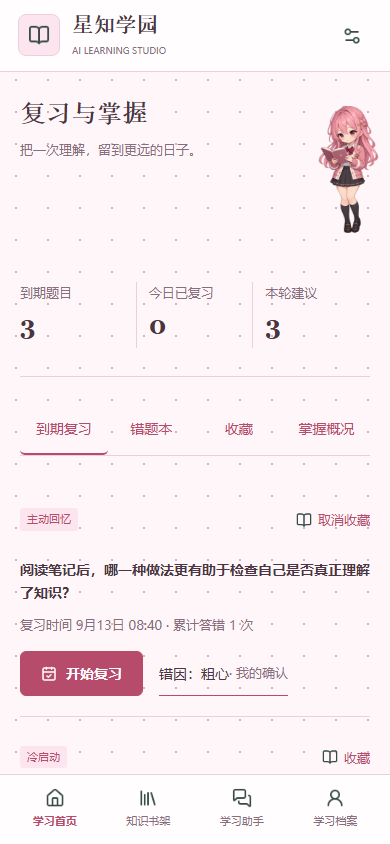
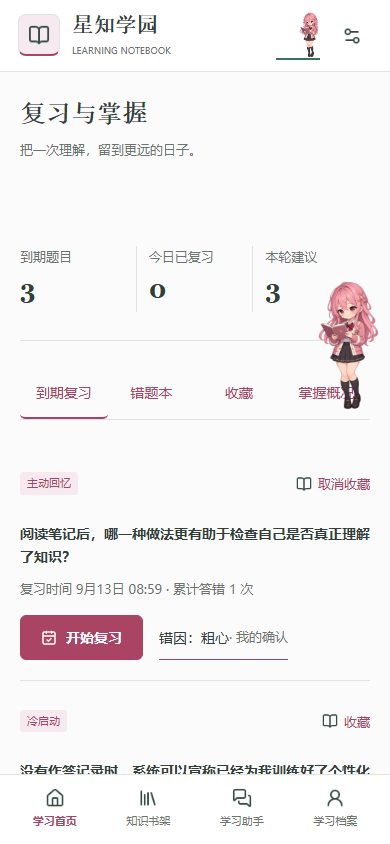
design: simplify the learning notebook with original painted artwork

diff --git a/frontend/src/app.scss b/frontend/src/app.scss
@@ -1,11 +1,11 @@
-page, body { margin: 0; background: #fff6f9; font-family: 'PingFang SC', 'Microsoft YaHei', sans-serif; font-size: 14px; letter-spacing: 0; }
+page, body { margin: 0; background: #fcfbfc; font-family: 'PingFang SC', 'Microsoft YaHei', sans-serif; font-size: 14px; letter-spacing: 0; }
 .studio taro-button-core { width: auto; margin: 0; font-family: inherit; }
 .studio taro-button-core::after { border: 0; }
 .studio .studio-icon img { width: 100%; height: 100%; object-fit: contain; position: static; transform: none; display: block; }
 .studio .secondary-button, .studio .answer-option { color: var(--ink); }
 .studio .studio-textarea .taro-textarea, .studio .studio-input .weui-input { background: transparent; color: var(--ink); }
 .studio .studio-textarea .taro-textarea { width: 100%; min-height: 88px; resize: vertical; }
-.has-companion .page-heading { padding-right: 84px; min-height: 132px; }
+.has-companion .page-heading { padding-right: 84px; min-height: 96px; }
 .studio taro-button-core[disabled=true] { opacity: .55; cursor: default; }
 .studio .login-submit { width: 100%; margin-top: 24px; }
 .studio .login-switch > *, .studio .pose-selector > * { flex: 1; }
@@ -50,7 +50,6 @@ page, body { margin: 0; background: #fff6f9; font-family: 'PingFang SC', 'Micros
 .report-question { padding: 22px 0; border-top: 1px solid var(--line); }
 .document-actions { display: flex; flex-wrap: wrap; gap: 12px; margin-top: 12px; }
 .upload-band { padding: 20px 0 28px; border-bottom: 1px solid var(--line); margin-bottom: 24px; }
-.theme-sakura { background-size: 32px 32px !important; }
 @media (max-width: 420px) { .studio .section-heading { flex-wrap: wrap; }.studio .appearance-dialog { padding: 16px; }.studio .theme-option { min-height: 56px; }.studio .theme-options { gap: 6px; }.studio .setting-row { min-height: 50px; margin-top: 8px; } }
 view, text, image, button, input, textarea { box-sizing: border-box; }
 button { margin: 0; padding: 0; border: 0; background: transparent; color: inherit; font: inherit; line-height: inherit; cursor: pointer; }
@@ -58,11 +57,12 @@ button::after { border: 0; }
 input, textarea { font: inherit; }
 button:disabled { opacity: .55; cursor: default; }
 .studio { --bg: #f3f7f3; --paper: #fff; --ink: #253d32; --muted: #68756d; --accent: #326b55; --soft: #e2eee5; --line: #d3dfd5; --secondary: #ad4e57; --heading: Georgia, 'Songti SC', serif; min-height: 100vh; background: var(--bg); color: var(--ink); font-size: 14px; line-height: 1.65; }
-.theme-sakura { --bg: #fff6f9; --paper: #fffdfd; --ink: #4c3543; --muted: #886e7c; --accent: #b74b6c; --soft: #fce5ee; --line: #edcfdb; --secondary: #407f78; --heading: 'Songti SC', Georgia, serif; background-image: radial-gradient(#dfacc0 1px, transparent 1px); background-size: 22px 22px; }
-.theme-night { --bg: #202729; --paper: #293234; --ink: #f0f4ef; --muted: #aebfbc; --accent: #a3ddd1; --soft: #354844; --line: #4c6360; --secondary: #f1b89d; --heading: Georgia, 'Songti SC', serif; background-image: linear-gradient(#ffffff06 1px, transparent 1px), linear-gradient(90deg,#ffffff06 1px,transparent 1px); background-size: 36px 36px; }
-.theme-sea { --bg: #eefbfc; --paper: #fff; --ink: #254450; --muted: #5e7b82; --accent: #197c95; --soft: #d5f0f1; --line: #b7dce0; --secondary: #c35e48; --heading: 'PingFang SC', sans-serif; }
-.theme-scroll { --bg: #fff7ed; --paper: #fffdf8; --ink: #54392f; --muted: #896d5d; --accent: #a73a38; --soft: #f7e5d7; --line: #ddc5a2; --secondary: #307c78; --heading: 'Songti SC', Georgia, serif; }
-.theme-forest { background-image: linear-gradient(90deg,transparent 31px,#346b5506 32px); background-size: 32px 32px; }
+.theme-sakura { --bg: #fcfbfc; --paper: #fff; --ink: #304039; --muted: #6d7470; --accent: #a94465; --soft: #f6eaf0; --line: #e0e4df; --secondary: #387260; --heading: 'Songti SC', Georgia, serif; }
+.theme-night { --bg: #202729; --paper: #293234; --ink: #f0f4ef; --muted: #aebfbc; --accent: #a3ddd1; --soft: #354844; --line: #4c6360; --secondary: #f1b89d; --heading: Georgia, 'Songti SC', serif; }
+.theme-sea { --bg: #f6fafc; --paper: #fff; --ink: #254450; --muted: #55727a; --accent: #19758b; --soft: #e5f2f3; --line: #cfdee2; --secondary: #b15141; --heading: 'PingFang SC', sans-serif; }
+.theme-scroll { --bg: #fbfaf8; --paper: #fff; --ink: #403a38; --muted: #75685f; --accent: #9f393d; --soft: #f7ece9; --line: #e3d9d2; --secondary: #307c78; --heading: 'Songti SC', Georgia, serif; }
+.theme-forest .section-title { border-bottom: 1px solid var(--secondary); padding-bottom: 2px; }
+.theme-night .brand-mark { border-radius: 50%; }.theme-scroll .page-heading { border-bottom: 1px double #ad9161; padding-bottom: 12px; }
 .studio-topbar { height: 84px; padding: 0 36px; display: flex; align-items: center; justify-content: space-between; background: var(--paper); border-bottom: 1px solid var(--line); position: relative; z-index: 12; }
 .studio-brand, .topbar-end, .section-heading, .row, .actions { display: flex; align-items: center; gap: 12px; }
 .studio-brand { cursor: pointer; }
@@ -82,7 +82,7 @@ button:disabled { opacity: .55; cursor: default; }
 .section-heading { justify-content: space-between; margin-bottom: 18px; }.section-title { font-size: 18px; font-weight: 700; font-family: var(--heading); }.muted { color: var(--muted); font-size: 13px; }.muted, .tiny-label { display: block; }
 .text-button { display: inline-flex; align-items: center; justify-content: center; gap: 6px; min-height: 40px; color: var(--accent); font-size: 13px; }
 .primary-button, .secondary-button { min-height: 44px; padding: 10px 20px; border-radius: 6px; display: inline-flex; gap: 9px; align-items: center; justify-content: center; font-size: 14px; font-weight: 600; }.primary-button { background: var(--accent); color: var(--paper); border: 1px solid var(--accent); }.primary-button .studio-icon { filter: brightness(0) invert(1); }.theme-night .primary-button { color: #18322c; }.secondary-button { border: 1px solid var(--line); background: var(--paper); }
-.theme-sakura .secondary-button { border-style: dashed; }.theme-scroll .brand-mark { border-radius: 0; border: 2px double var(--secondary); }.theme-sea .page-heading { border-left: 3px solid var(--secondary); padding-left: 14px; }
+.theme-sakura .brand-mark { border-bottom: 2px solid var(--accent); }.theme-scroll .brand-mark { border-radius: 0; border: 2px double var(--secondary); }.theme-sea .page-heading { border-left: 3px solid var(--secondary); padding-left: 14px; }
 .mobile-navigation { display: none; }.modal-backdrop { position: fixed; inset: 0; z-index: 100; background: #16262066; display: flex; align-items: center; justify-content: center; padding: 18px; }
 .appearance-dialog { width: 420px; max-width: 100%; max-height: 85vh; overflow-y: auto; background: var(--paper); color: var(--ink); border: 1px solid var(--line); border-radius: 8px; padding: 24px; }
 .theme-options { display: flex; flex-direction: column; gap: 8px; }.theme-option { display: flex; align-items: center; gap: 12px; text-align: left; border: 1px solid var(--line); min-height: 66px; padding: 10px 12px; border-radius: 6px; }.theme-option.selected { border-color: var(--accent); background: var(--soft); }.theme-option .studio-icon { margin-left: auto; }.theme-swatch { width: 44px; height: 36px; border: 2px solid; padding: 8px; border-radius: 3px; }.theme-swatch view { height: 6px; margin-top: 12px; }
@@ -112,6 +112,10 @@ button:disabled { opacity: .55; cursor: default; }
 .quiz-citation .citation-link { white-space: normal; text-align: left; max-width: 100%; }
 .today-review { padding: 8px 0 24px; border-bottom: 1px solid var(--line); margin-bottom: 24px; gap: 16px; flex-wrap: wrap; }
 .today-review .muted { display: block; margin-top: 8px; }
+.study-window { display: flex; justify-content: center; background: var(--paper); margin: 0 0 22px; border-bottom: 1px solid var(--line); }
+.study-panorama { display: block; width: 100%; height: 220px; }
+.study-panorama img { position: static; width: 100%; height: 100%; object-fit: contain; transform: none; }
+@media (max-width: 800px) { .study-panorama { height: auto; aspect-ratio: 3 / 1; }.study-window { margin-bottom: 20px; }.welcome-band .welcome-title { font-size: 18px; }.welcome-band .primary-button { padding: 8px 12px; }.welcome-band { gap: 12px; } }
 .review-tabs { display: grid; grid-template-columns: repeat(4, minmax(0, 1fr)); border-bottom: 1px solid var(--line); margin-bottom: 24px; }
 .studio .review-tabs .text-button { min-width: 0; padding: 12px 4px; white-space: normal; font-size: 14px; border-bottom: 2px solid transparent; }
 .studio .review-tabs .active { border-bottom-color: var(--accent); color: var(--accent); }

diff --git a/frontend/src/pages/index/index.tsx b/frontend/src/pages/index/index.tsx
@@ -1,5 +1,5 @@
 import { useState, useCallback, useRef } from 'react'
-import { View, Text, Textarea, Button } from '@tarojs/components'
+import { View, Text, Textarea, Button, Image } from '@tarojs/components'
 import Taro, { useDidShow, useDidHide } from '@tarojs/taro'
 import { StudioShell, Notice, Empty, navigate } from '../../components/StudioShell'
 import { Icon } from '../../components/Icon'
@@ -40,10 +40,11 @@ export default function HomePage() {
     } catch (reason) { if (alive.current) setError(reason instanceof Error ? reason.message : '生成失败，请重试') }
     finally { busy.current = false; if (alive.current) setStage('') }
   }
-  return <StudioShell active='home' title='今天，也向前一小步' subtitle={`${profile?.nickname || getCachedUser()?.nickname || '同学'}，欢迎回到你的学习空间。`}>
+  return <StudioShell active='home' title='学习手帐' subtitle={`${profile?.nickname || getCachedUser()?.nickname || '同学'}，今天想读些什么？`}>
     {error && <Notice message={error} retry={load} />}
+    <View className='study-window'><Image className='study-panorama' src={require('../../assets/library-garden.jpg')} mode='aspectFit' /></View>
     <View className='today-review section-heading'><View><Text className='section-title'>今日复习</Text><Text className='muted'>{learning ? `${learning.due_count} 道到期 · 今日已复习 ${learning.today_reviews} 道` : '正在读取复习计划'}</Text></View><Button className='secondary-button' onClick={() => Taro.navigateTo({ url: '/learning/review/index' })}><Icon name='review' size={17} />复习与掌握</Button></View>
-    <View className='welcome-band'><View><Text className='tiny-label'>MY LEARNING NOTEBOOK</Text><Text className='welcome-title'>从一页知识，开始一次发现</Text><Text className='muted'>你的材料、练习与学习记录，都在这里。</Text></View><Button className='primary-button' onClick={() => navigate('/pages/knowledge/index')}><Icon name='upload' size={18} />添加学习材料</Button></View>
+    <View className='welcome-band'><Text className='welcome-title'>我的知识书架</Text><Button className='primary-button' onClick={() => navigate('/pages/knowledge/index')}><Icon name='upload' size={18} />添加学习材料</Button></View>
     <View className='stats-row'><View className='stat'><Text className='muted'>我的知识文档</Text><Text className='stat-number'>{documentCount}</Text><Text className='tiny-label'>篇学习材料</Text></View><View className='stat'><Text className='muted'>累计练习</Text><Text className='stat-number'>{profile?.quiz_count || 0}</Text><Text className='tiny-label'>次探索与尝试</Text></View><View className='stat'><Text className='muted'>已完成正确率</Text><Text className='stat-number'>{profile?.quiz_count ? `${profile.average_accuracy}%` : '暂无'}</Text><Text className='tiny-label'>{profile?.total_xp || 0} 学习经验</Text></View></View>
     <View className='dashboard-grid'><View className='section-band'><View className='section-heading'><Text className='section-title'>自由练习</Text><Text className='tag'>主题练习</Text></View><Textarea className='studio-textarea' placeholder='今天想学习什么？例如：Python 列表与字典的区别' value={input} maxlength={2000} onInput={e => setInput(e.detail.value)} /><View className='section-heading' style={{ marginTop: '14px' }}><Text className='muted'>{input.length}/2000</Text><Button className='primary-button' disabled={!input.trim() || !!stage} onClick={generate}><Icon name='sparkle' size={17} />{stage || '生成练习'}</Button></View></View>
       <View className='section-band'><View className='section-heading'><Text className='section-title'>最近的学习足迹</Text><Button className='text-button' onClick={() => navigate('/pages/profile/index')}>全部记录<Icon name='arrow' size={16} /></Button></View>{history.length ? history.map(item => <View className='history-row' key={item.quiz_id} onClick={() => Taro.navigateTo({ url: `/pages/report/index?quizId=${item.quiz_id}` })}><View className='row-copy'><Text className='row-title'>{item.title}</Text><Text className='muted'>{item.created_at}</Text></View><Text className='score-badge'>{item.accuracy}%</Text></View>) : <Empty title='第一段足迹，等你留下' text='添加材料或完成一次主题练习，学习记录就会出现在这里。' />}</View>

diff --git a/frontend/src/components/StudioProvider.tsx b/frontend/src/components/StudioProvider.tsx
@@ -2,11 +2,11 @@ import { createContext, useContext, useState, PropsWithChildren } from 'react'
 import Taro from '@tarojs/taro'
 
 export const themes = [
-  { id: 'sakura', name: '樱花学园', accent: '#b74b6c', paper: '#fff6f9', motif: '花笺' },
+  { id: 'sakura', name: '樱花学园', accent: '#a94465', paper: '#fcfbfc', motif: '花笺' },
   { id: 'night', name: '月夜观测室', accent: '#a3ddd1', paper: '#202729', motif: '星图' },
   { id: 'sea', name: '海盐夏日', accent: '#197c95', paper: '#eefbfc', motif: '航线' },
   { id: 'forest', name: '森之图书馆', accent: '#326b55', paper: '#f1f7f2', motif: '藏书' },
-  { id: 'scroll', name: '赤金绘卷', accent: '#a73a38', paper: '#fff7ed', motif: '印记' },
+  { id: 'scroll', name: '赤金绘卷', accent: '#9f393d', paper: '#fbfaf8', motif: '印记' },
 ] as const
 type Settings = { theme: string; reducedMotion: boolean; companion: boolean; companionFolded: boolean; companionForm: 'pink' | 'orange'; companionPose: 'auto' | 'read' | 'wave' | 'celebrate' }
 const defaults: Settings = { theme: 'sakura', reducedMotion: false, companion: true, companionFolded: false, companionForm: 'pink', companionPose: 'auto' }

diff --git a/frontend/e2e/appearance.spec.ts b/frontend/e2e/appearance.spec.ts
@@ -20,6 +20,9 @@ test('real account, mobile and desktop appearance', async ({ page, request }) =>
   await expect(page.locator('.welcome-title')).toBeVisible()
   await page.reload()
   await expect(page.locator('.welcome-title')).toBeVisible()
+  await expect(page.locator('.study-panorama')).toBeVisible()
+  await expect.poll(() => page.locator('.study-panorama img').evaluate(e => (e as HTMLImageElement).naturalWidth)).toBeGreaterThan(1000)
+  expect(await page.locator('.studio').evaluate(e => getComputedStyle(e).backgroundImage)).toBe('none')
   await expect(page.locator('.companion')).toBeVisible()
   expect(await page.evaluate(() => document.documentElement.scrollWidth <= innerWidth)).toBeTruthy()
   await mkdir('../docs/screenshots/h5', { recursive: true })

diff --git a/frontend/src/components/StudioShell.tsx b/frontend/src/components/StudioShell.tsx
@@ -35,7 +35,7 @@ export function StudioShell({ children, active, title, subtitle, guest = false, 
     <View className='studio-topbar'>
       <View className='studio-brand' onClick={() => navigate('/pages/index/index')}>
         <View className='brand-mark'><Icon name='book' size={22} /></View>
-        <View><Text className='brand-name'>星知学园</Text><Text className='brand-english'>AI LEARNING STUDIO</Text></View>
+        <View><Text className='brand-name'>星知学园</Text><Text className='brand-english'>LEARNING NOTEBOOK</Text></View>
       </View>
       <View className='topbar-end'>
         <Text className='theme-caption'>{themes.find(t => t.id === settings.theme)?.name}</Text>

diff --git a/docs/implementation-tracker.md b/docs/implementation-tracker.md
@@ -332,7 +332,7 @@ The following owner requests are part of the remaining acceptance scope, not com
 | REPORT-04 | Mermaid learning and relationship diagrams | Stored graph data after review; sanitized H5 renderer and tested native equivalent; invalid graphs fail visibly | Pending |
 | REVIEW-03 | Named error notebooks | Create notebook, explicitly add/remove an owned wrong question, select destination, idempotency and cross-user denial | Pending |
 | UI-04 | Visible companion and recovery | Focus pages must not silently remove it; safe collapsed state, restore/hide control, mobile/desktop/native checks | H5 fixed and verified; native build passed, IDE runtime pending |
-| UI-05 | Simpler hand-painted anime visual design | Original nature/study artwork, restrained surfaces and typography, no pervasive dot field or generic AI marketing composition; five themes and real screenshots | Pending |
+| UI-05 | Simpler hand-painted anime visual design | Original nature/study artwork, restrained surfaces and typography, no pervasive dot field or generic AI marketing composition; five themes and real screenshots | H5 simplified and verified across five themes; native runtime pending |
 
 GitHub code pushes are explicitly authorized; credentials must never be uploaded. Local paid model
 providers remain enabled with budgets. Deployment-side paid providers still require actual deployment
@@ -355,6 +355,19 @@ algorithm-experiment, native-testing, documentation or coexistence requirements.
   weapp main 574180 bytes. Native IDE runtime remains unverified, not described as fixed by a build.
 - Evidence: `evidence/companion-visibility.json`, `evidence/companion-build-size.json`, and the actual
   H5 screenshot `screenshots/h5/26-companion-focus.png`. No provider calls or production changes.
+
+### Hand-Painted Interface Loop (2026-09-15)
+
+- Removed pervasive dot/grid backgrounds, reduced the oversized heading reservation and replaced
+  promotional home copy with literal learning labels. Five themes retain stable navigation and
+  individual accent, border and typography choices on restrained surfaces.
+- Added one original 1280x427 study-library illustration (120801 bytes). It is decorative artwork,
+  explicitly attributed in `assets-attribution.md`, not a system screenshot or a reference-project
+  asset. The runtime screenshots show the actual browser interface and real isolated test data.
+- Three browser scenarios passed in 15.3 s: five themes, mobile/small/desktop layouts, artwork load,
+  companion rendering and recovery, and the complete server-backed review flow. H5 and weapp builds
+  passed; native IDE execution still requires verification. Source bounds and UI overlap assertions
+  remain enabled. Evidence: refreshed screenshots 01, 07, 09-10, 23-26 and `theme-*.png`.
 
 - Preserve Taro 4.1.11, MySQL and Chroma; enhance existing modules.
 - Deterministic tests must disable dotenv and network before importing the application.

diff --git a/docs/assets-attribution.md b/docs/assets-attribution.md
@@ -8,6 +8,20 @@ Files: `frontend/src/assets/companion-pink-{0,1,2}.png` and `companion-orange-{0
 
 Generation prompt: original adult anime study mentor; transparent three-column sprite sheet; identical outfit and scale within each sheet; full-body reading/thinking, waving, celebration poses; pink hair/cardigan or apricot hair/vest; no text, logos or third-party franchise references. Runtime animation is implemented separately from this artwork and can be disabled.
 
+## Library Garden
+
+`frontend/src/assets/library-garden.jpg` was generated with built-in ImageGen on 2026-09-15 for this
+project, then resized without cropping to 1280x427 JPEG (120801 bytes). It is original decorative
+artwork, not a screenshot, and uses no reference-project artwork or existing film characters.
+Distribution follows the repository license to the extent rights in generated output permit;
+copyright eligibility and exclusivity are not guaranteed.
+
+Prompt: original compact 3:1 school-library panorama open to a garden, notebook and pencil in the
+foreground, pale-blue window frames, leaf-green canopy and clouds, a small pink-haired student
+reading on the right; hand-painted 2D animated-film background, irregular ink lines, matte gouache
+and watercolor, gentle daylight, green/blue/white with restrained coral; no text, logos, watermark,
+existing characters or UI mockup. Generated art is never placed in the screenshots directory.
+
 ## Interface Icons
 
 [Lucide](https://lucide.dev/license), ISC license. PNGs are generated from `lucide-static` SVGs for the shared Taro interface. The package version is pinned by `frontend/package-lock.json`. Original SVG geometry is retained; raster export allows a consistent miniapp `Image` implementation.
